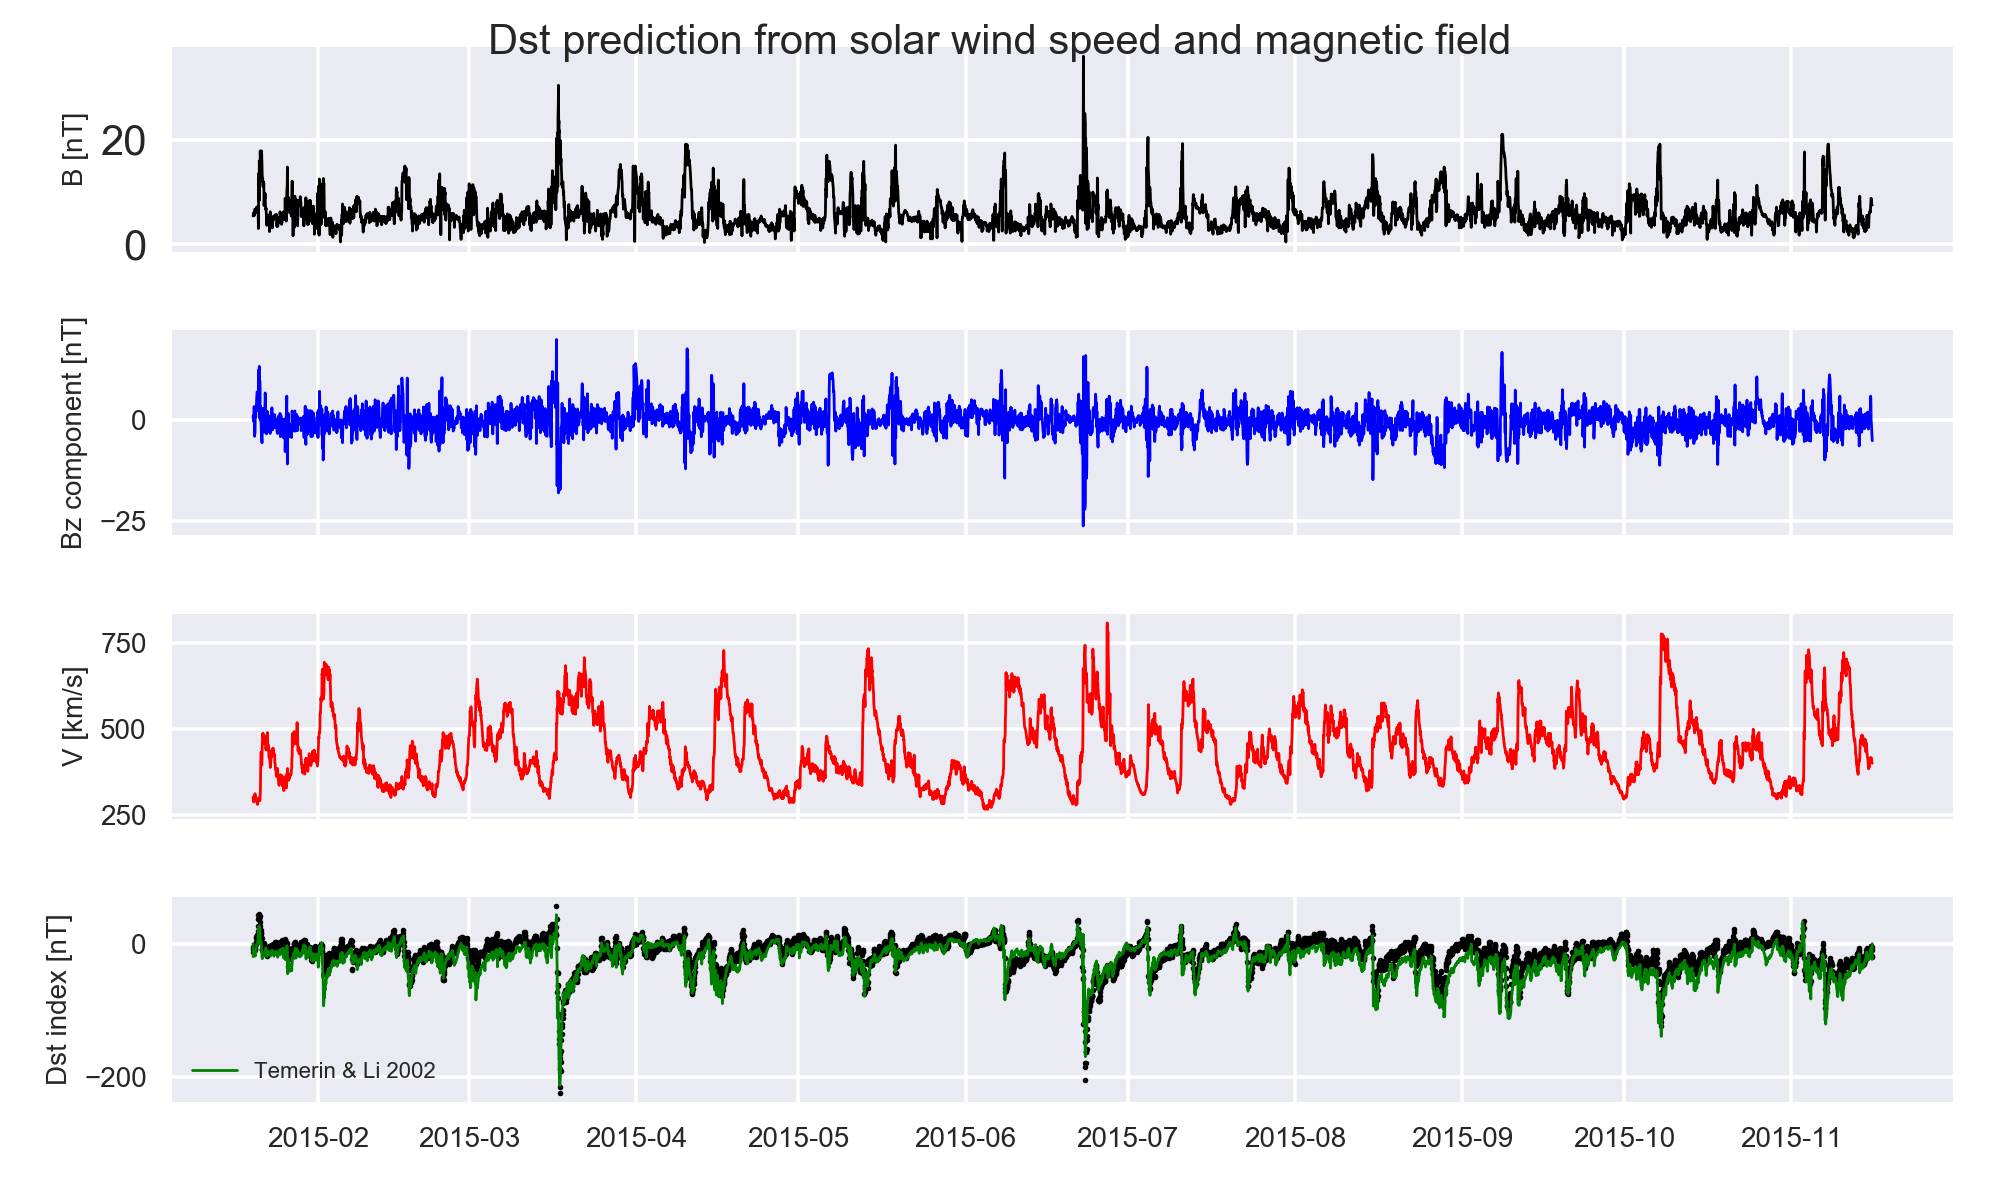
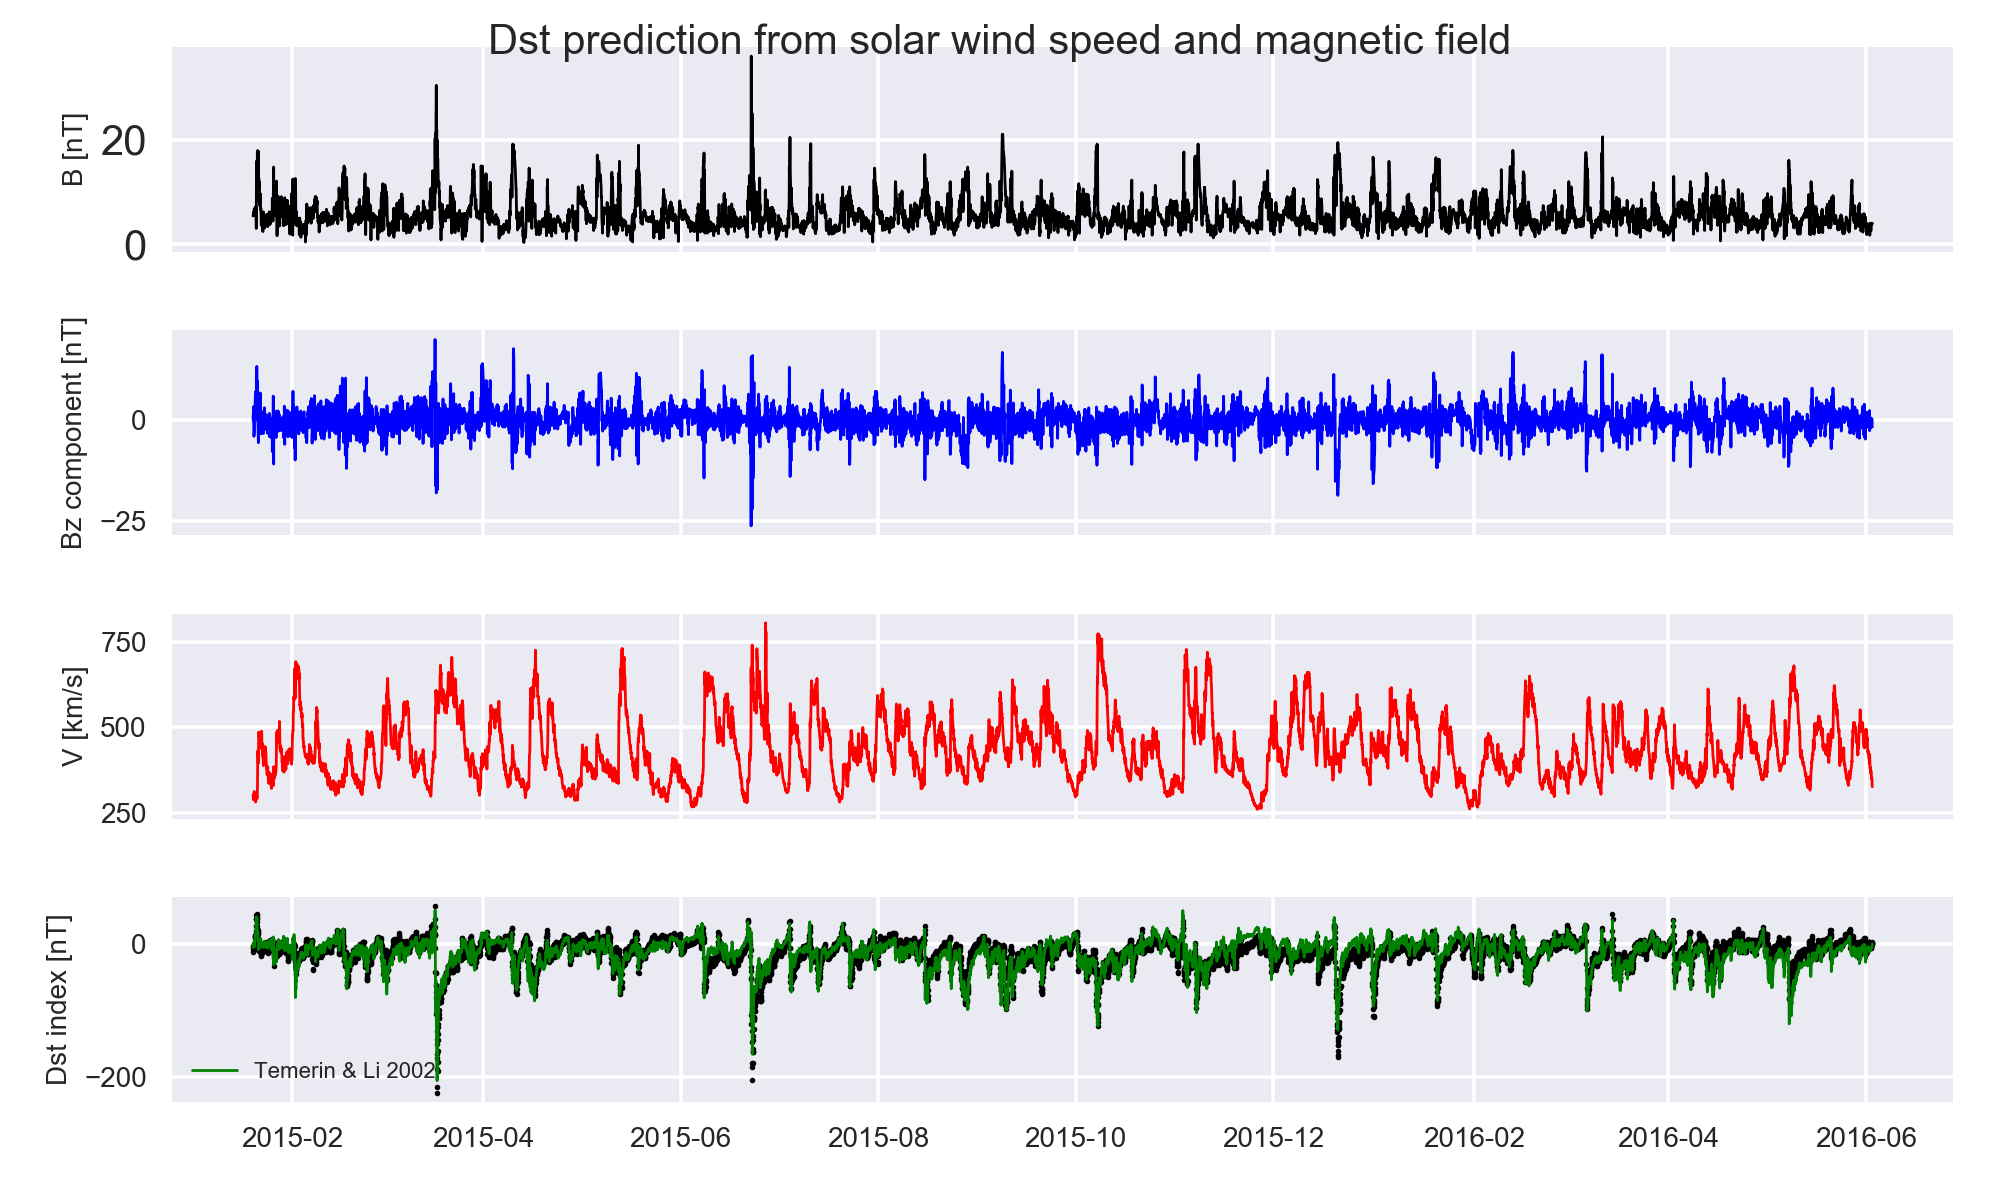
added offset

diff --git a/fit_offset.py b/fit_offset.py
@@ -28,6 +28,8 @@ import seaborn as sns
 import os
 import copy
 import pdb
+import scipy
+
 
 ########################## initialize
 
@@ -262,7 +264,7 @@ def plotwind(start, end, tickdays):
 ######################################################################################## 
 ###  THIS IS THE MAIN FUNCTION FOR SOLAR WIND TO DST CONVERSION  
 ########################################################################################
-def make_dst_from_wind(btot_in,bx_in, by_in,bz_in,v_in,vx_in,density_in,time_in):
+def optimize_offset(sarr):
 
  #this makes from synthetic or observed solar wind the Dst index	
  #all nans in the input data must be removed prior to function call
@@ -276,61 +278,11 @@ def make_dst_from_wind(btot_in,bx_in, by_in,bz_in,v_in,vx_in,density_in,time_in)
  #vx_in - the solar wind speed x component (GSE is similar to GSM) in km/s
  #time_in - the time in matplotlib date format
 
- #define variables
- Ey=np.zeros(len(bz_in))
- #dynamic pressure
- pdyn1=np.zeros(len(bz_in))
- protonmass=1.6726219*1e-27  #kg
- #assume pdyn is only due to protons
- pdyn1=density_in*1e6*protonmass*(v_in*1e3)**2*1e9  #in nanoPascal
- dststar1=np.zeros(len(bz_in))
- dstcalc1=np.zeros(len(bz_in))
- dststar2=np.zeros(len(bz_in))
- dstcalc2=np.zeros(len(bz_in))
- 
- #array with all Bz fields > 0 to 0 
- bz_in_negind=np.where(bz_in > 0)  
-  #important: make a deepcopy because you manipulate the input variable
- bzneg=copy.deepcopy(bz_in)
- bzneg[bz_in_negind]=0
+ s1=sarr[0]
+ s2=sarr[1]
+ s3=sarr[2]
 
- #define interplanetary electric field 
- Ey=v_in*abs(bzneg)*1e-3; #now Ey is in mV/m
- 
- ######################## model 1: Burton et al. 1975 
- Ec=0.5  
- a=3.6*1e-5
- b=0.2*100 #*100 wegen anderer dynamic pressure einheit in Burton
- c=20  
- d=-1.5/1000 
- for i in range(len(bz_in)-1):
-  if Ey[i] > Ec:
-   F=d*(Ey[i]-Ec) 
-  else: F=0
-  #Burton 1975 seite 4208: Dst=Dst0+bP^1/2-c   / und b und c positiv  
-  #this is the ring current Dst
-  deltat_sec=(time_in[i+1]-time_in[i])*86400 #timesyn is in days - convert to seconds
-  dststar1[i+1]=(F-a*dststar1[i])*deltat_sec+dststar1[i];  #deltat must be in seconds
-  #this is the Dst of ring current and magnetopause currents 
-  dstcalc1[i+1]=dststar1[i+1]+b*np.sqrt(pdyn1[i+1])-c; 
 
- ###################### model 2: OBrien and McPherron 2000 
- #constants
- Ec=0.49
- b=7.26  
- c=11  #nT
- for i in range(len(bz_in)-1):
-  if Ey[i] > Ec:            #Ey in mV m
-   Q=-4.4*(Ey[i]-Ec) 
-  else: Q=0
-  tau=2.4*np.exp(9.74/(4.69+Ey[i])) #tau in hours
-  #this is the ring current Dst
-  deltat_hours=(time_in[i+1]-time_in[i])*24 #time_in is in days - convert to hours
-  dststar2[i+1]=((Q-dststar2[i]/tau))*deltat_hours+dststar2[i] #t is pro stunde, time intervall ist auch 1h
-  #this is the Dst of ring current and magnetopause currents 
-  dstcalc2[i+1]=dststar2[i+1]+b*np.sqrt(pdyn1[i+1])-c; 
-  
- 
  
  ######## model 3: Xinlin Li LASP Colorado and Mike Temerin
  
@@ -361,35 +313,7 @@ def make_dst_from_wind(btot_in,bx_in, by_in,bz_in,v_in,vx_in,density_in,time_in)
  p2=2.18e-4
  p3=14.7
  
- # these need to be found with a fit for 1-2 years before calculation
- # taken from the TL code:    offset_term_s1 = 6.70       ;formerly named dsto
- #   offset_term_s2 = 0.158       ;formerly hard-coded     2.27 for 1995-1999
- #   offset_term_s3 = -0.94       ;formerly named phasea  -1.11 for 1995-1999
- #   offset_term_s4 = -0.00954    ;formerly hard-coded
- #   offset_term_s5 = 8.159e-6    ;formerly hard-coded
- 
- 
- #s1=6.7
- #s2=0.158
- #s3=-0.94
- #set by myself as a constant in the offset term
- #s4=-3
- 
- 
- #s1=-2.788
- #s2=1.44
- #s3=-0.92
- #set by myself as a constant in the offset term
- #s4=-3
- #s4 and s5 as in the TL 2002 paper are not used due to problems with the time
- #s4=-1.054*1e-2
- #s5=8.6e-6
 
-
- #found by own offset optimization for 2015
- s1=4.29
- s2=5.94
- s3=-3.97
  
  a1=6.51e-2
  a2=1.37
@@ -418,8 +342,7 @@ def make_dst_from_wind(btot_in,bx_in, by_in,bz_in,v_in,vx_in,density_in,time_in)
 
       
   #t time in days since beginning of 1995   #1 Jan 1995 in Julian days
-#  t1=sunpy.time.julian_day(mdates.num2date(time_in[i]))-sunpy.time.julian_day('1995-1-1 00:00')
-  t1=sunpy.time.julian_day(mdates.num2date(time_in[i]))-sunpy.time.julian_day('2015-1-1 00:00')
+  t1=sunpy.time.julian_day(mdates.num2date(time_in[i]))-sunpy.time.julian_day('1995-1-1 00:00')
   
  
   yearli=365.24 
@@ -512,15 +435,18 @@ def make_dst_from_wind(btot_in,bx_in, by_in,bz_in,v_in,vx_in,density_in,time_in)
   #print(dst_temerin_li_out[i])
  
   #---------------- loop over
- plt.plot(dst1)
- plt.plot(dst2)
- plt.plot(dst3)
- plt.plot(pressureterm)
- plt.plot(directterm)
- plt.plot(offset) 
+ #plt.plot(dst1)
+ #plt.plot(dst2)
+ #plt.plot(dst3)
+ #plt.plot(pressureterm)
+ #plt.plot(directterm)
+ #plt.plot(offset) 
   
+ rms_TL=(sum((dsti-dst_temerin_li_out)**2)/len(dsti))**0.5
+ 
+ print(round(s1,2),round(s2,2),round(s3,2), '      rms: ',round(rms_TL,2))
 
- return (dstcalc1,dstcalc2, dst_temerin_li_out)
+ return rms_TL
    
    
 
@@ -558,7 +484,7 @@ else: [spot,btot,bx,by,bz,bygsm, bzgsm,speed,speedx, dst,kp,den,pdyn,year,day,ho
 
 #test time range
 start='2015-Jan-20'
-ndays=500
+ndays=300
 
 #smaller ndays array with hourly values
 btoti=np.zeros(24*ndays)
@@ -624,9 +550,69 @@ deni=np.interp(time_new,timesi[good],deni[good])
 
 
 ######### Use function for calculation
-[dst_burton, dst_obrien, dst_temerin_li]=make_dst_from_wind(btoti,bxi,  bygsmi, bzgsmi, speedi, speedix, deni, timesi)
+#[dst_burton, dst_obrien, dst_temerin_li]=make_dst_from_wind(btoti,bxi,  bygsmi, bzgsmi, speedi, speedix, deni, timesi)
+
+#optimize s1-4 of offset function
+
+ # these need to be found with a fit for 1-2 years before calculation
+ # taken from the TL code:    offset_term_s1 = 6.70       ;formerly named dsto
+ #   offset_term_s2 = 0.158       ;formerly hard-coded     2.27 for 1995-1999
+ #   offset_term_s3 = -0.94       ;formerly named phasea  -1.11 for 1995-1999
+ #   offset_term_s4 = -0.00954    ;formerly hard-coded
+ #   offset_term_s5 = 8.159e-6    ;formerly hard-coded
+ 
+#x0=[6.7, 0.15, -0.94, -5]
+
+ #s1=6.7
+ #s2=0.158
+ #s3=-0.94
+ #set by myself as a constant in the offset term
+ #s4=-3
+ 
+ 
+
+ #s4 and s5 as in the TL 2002 paper are not used due to problems with the time
+ #s4=-1.054*1e-2
+ #s5=8.6e-6
 
 
+btot_in=btoti
+bx_in=bxi
+by_in=bygsmi
+bz_in=bzgsmi
+v_in=speedi
+vx_in=speedix
+density_in=deni
+time_in=timesi
+
+
+#define variables
+#dynamic pressure
+pdyn1=np.zeros(len(bz_in))
+protonmass=1.6726219*1e-27  #kg
+#assume pdyn is only due to protons
+pdyn1=density_in*1e6*protonmass*(v_in*1e3)**2*1e9  #in nanoPascal
+
+ 
+
+
+
+
+
+#x0=[6.7, 0.15, -0.9, -3]
+
+#x0=[-2.79, 1.44, -0.92, -7]
+
+x0=[4.2,5.95,-3.93]
+
+#smin=scipy.optimize.fmin(optimize_offset, x0)
+smin=scipy.optimize.minimize(optimize_offset, x0, method='Powell')
+
+sys.exit()
+
+ 
+rms=optimize_offset(x0)
+print(rms)
 
 ############################# plot solar wind to Dst conversion results
 
